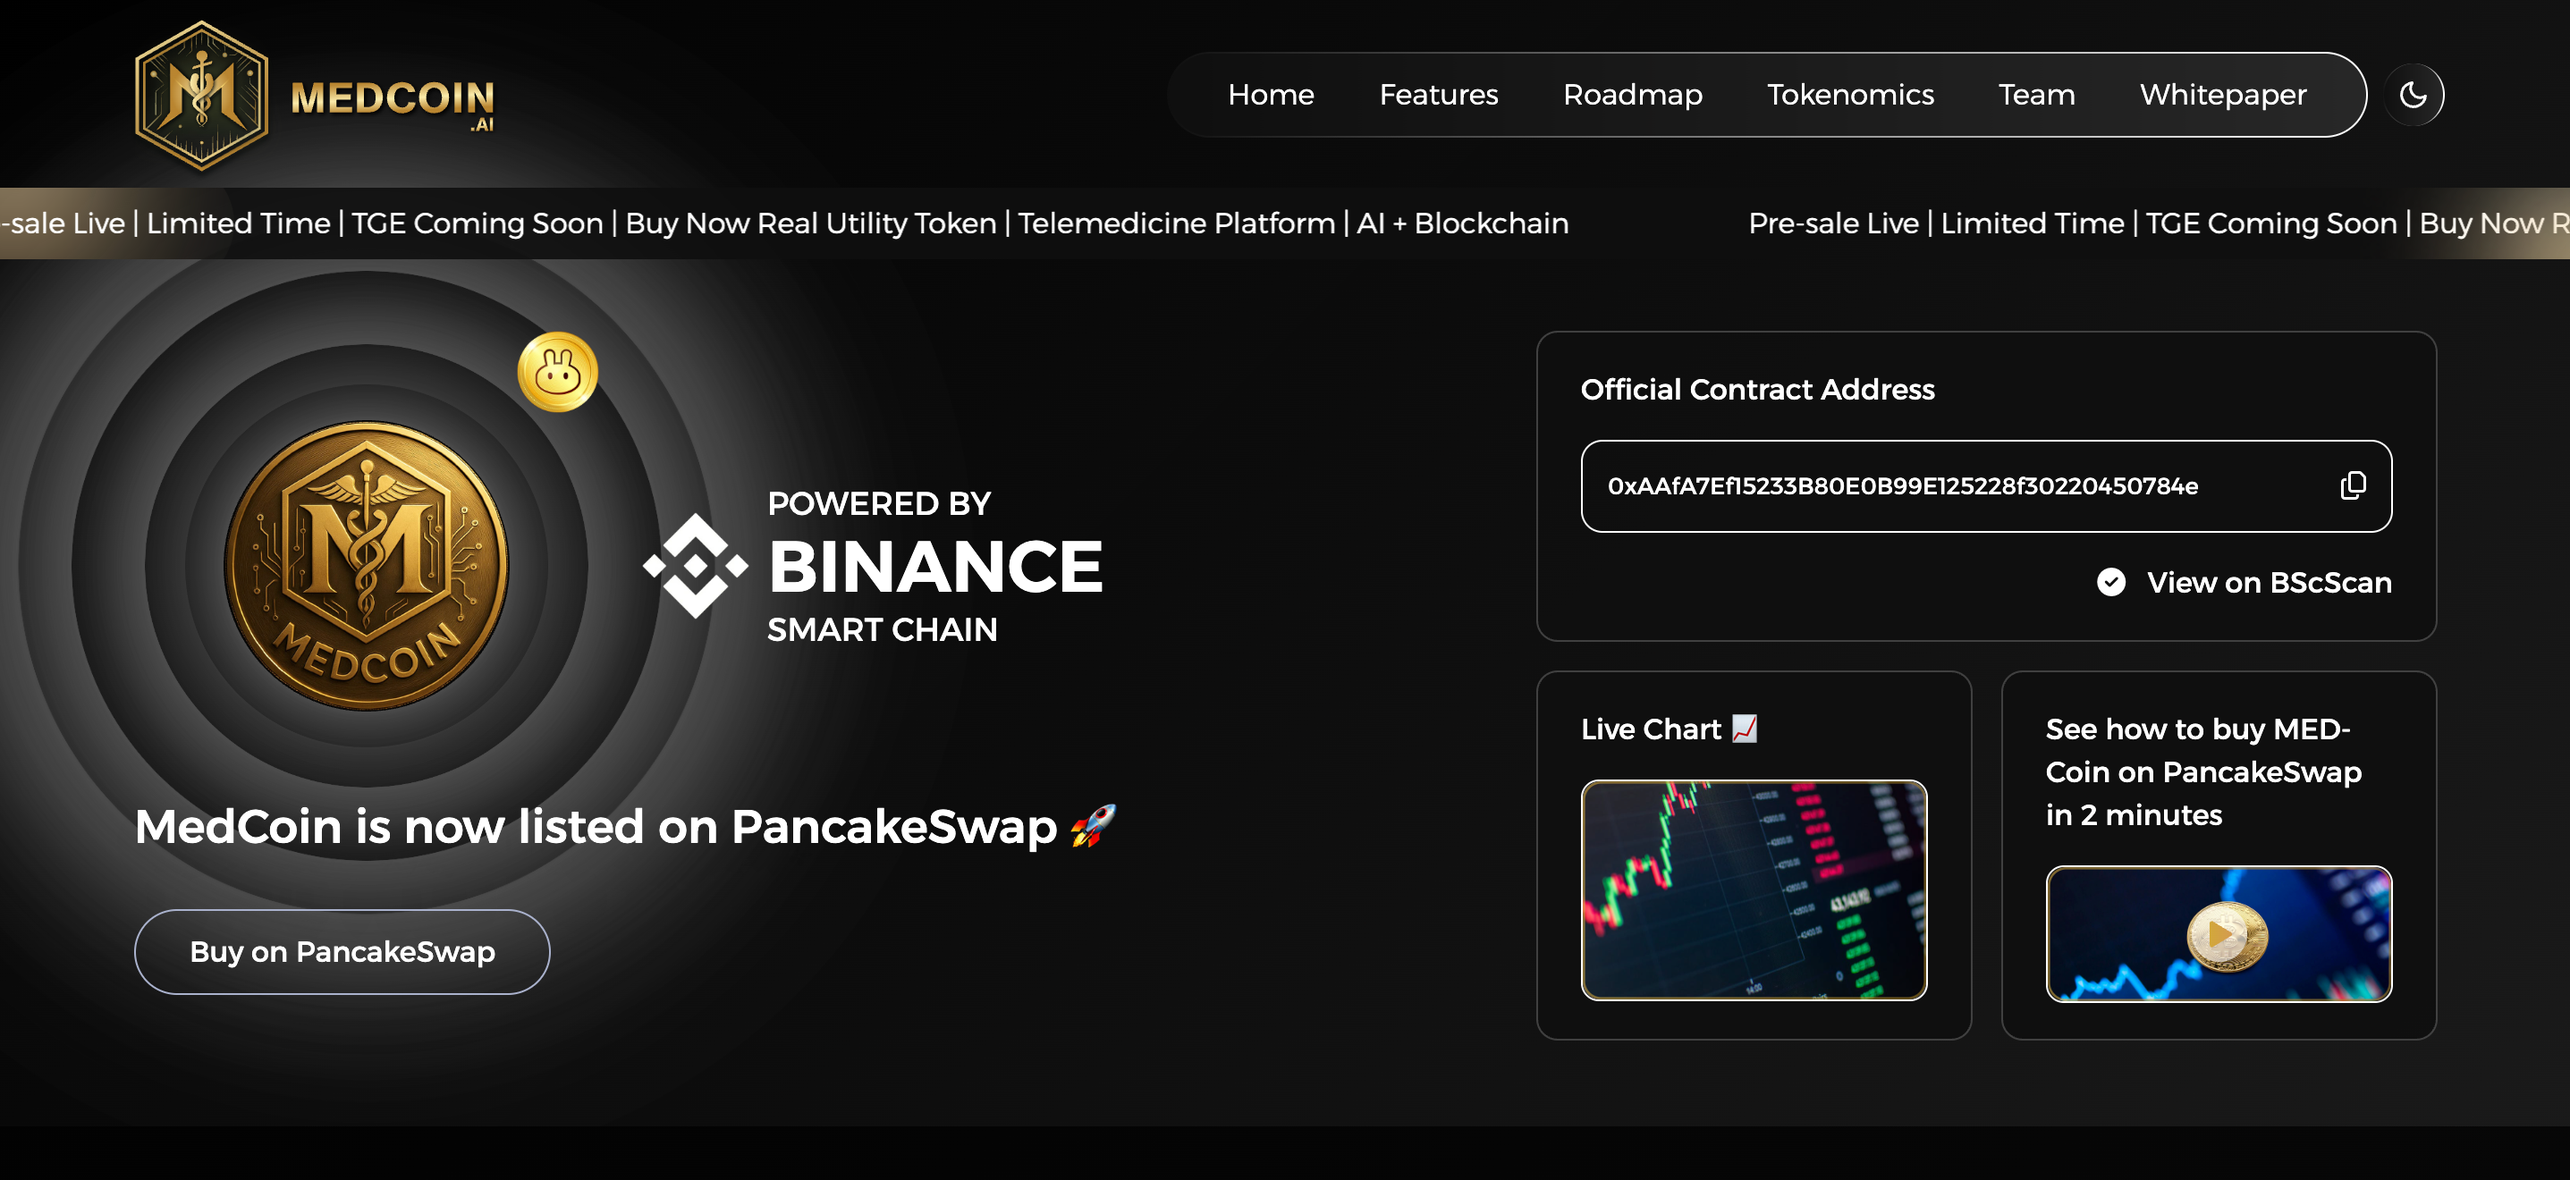
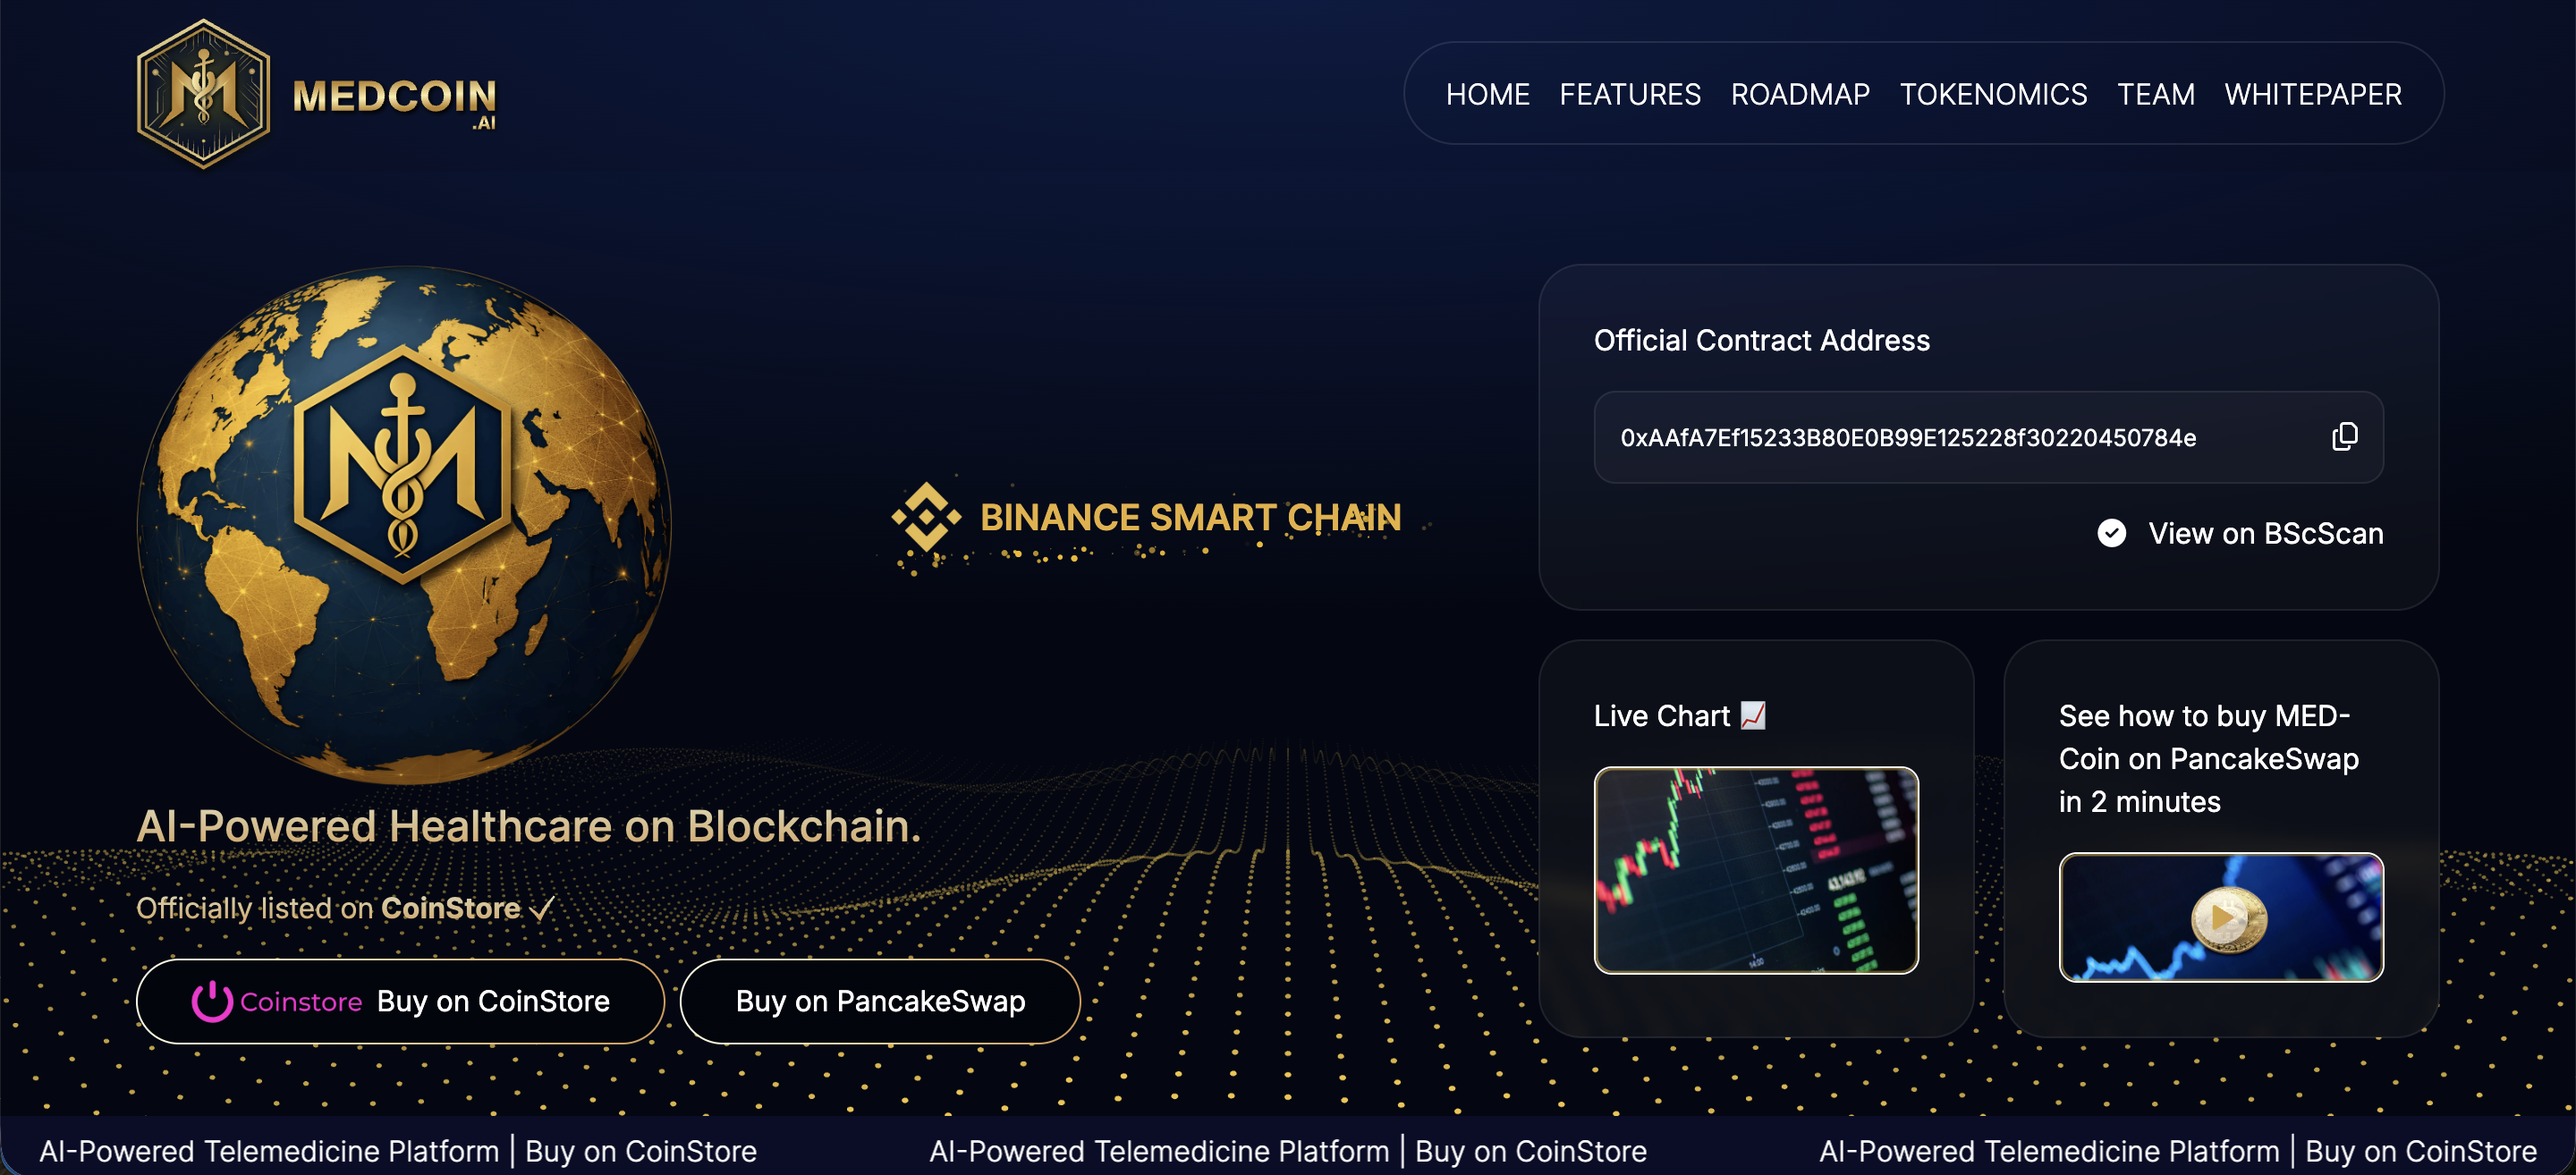
add new projects and update project ordering
- Add Vallote, Vinova, CSN India, Ask Service, and Taaluma projects
- Reorder Magicine Pharma and Vinova entries for better listing flow
- Update medcoin and vallote project images

diff --git a/src/components/projectData.ts b/src/components/projectData.ts
@@ -1,5 +1,14 @@
 export const projects = [
     {
+        title: 'Vallote',
+        description: '',
+        image: '/images/vallote.png',
+        technologies: ['Next.js', 'TypeScript', 'Redux Toolkit', 'Hero UI', 'Firebase', 'Tailwind CSS', 'Geocoding API'],
+        liveUrl: 'https://vallote.vercel.app/',
+        githubUrl: 'https://github.com',
+        category: 'Next.js'
+    },
+    {
         title: 'MedCoin',
         description: '',
         image: '/images/medcoin.png',
@@ -9,11 +18,29 @@ export const projects = [
         category: 'React JS'
     },
     {
+        title: 'Magicine Pharma',
+        description: 'Magicine Pharma is an online healthcare platform offering services like medicine delivery, lab tests, doctor consultations, and more. I designed and developed the entire website, integrated multiple APIs to fetch dynamic data, implemented Google authentication, and used geocoding to detect users’ current locations. The platform also supports secure online payments through PayPal, Razorpay, and Cash on Delivery.',
+        image: '/images/magicine-pharma.png',
+        technologies: ['Next.js', 'TypeScript', 'Redux Toolkit', 'Next UI', 'Firebase', 'Tailwind CSS', 'Geocoding API'],
+        liveUrl: 'https://www.magicinepharma.com/',
+        githubUrl: 'https://github.com',
+        category: 'Next.js'
+    },
+    {
         title: 'Shootezy',
         description: '',
         image: '/images/shootezy.png',
         technologies: ['Next.js', 'TypeScript', 'Redux Toolkit', 'Hero UI', 'Firebase', 'Tailwind CSS', 'Geocoding API'],
         liveUrl: 'https://shootesy.com/',
+        githubUrl: 'https://github.com',
+        category: 'Next.js'
+    },
+    {
+        title: 'Vinova',
+        description: '',
+        image: '/images/vinova.png',
+        technologies: ['Next.js', 'TypeScript', 'Redux Toolkit', 'Hero UI', 'Firebase', 'Tailwind CSS', 'Geocoding API'],
+        liveUrl: 'https://vinova.store/',
         githubUrl: 'https://github.com',
         category: 'Next.js'
     },
@@ -36,20 +63,29 @@ export const projects = [
         category: 'Others'
     },
     {
-        title: 'Vinova',
+        title: 'CSN India',
         description: '',
-        image: '/images/vinova.png',
-        technologies: ['Next.js', 'TypeScript', 'Redux Toolkit', 'Hero UI', 'Firebase', 'Tailwind CSS', 'Geocoding API'],
-        liveUrl: 'https://vinova.store/',
+        image: '/images/csn.png',
+        technologies: ['Next.js', 'TypeScript', 'Redux Toolkit', 'Hero UI', 'Tailwind CSS',],
+        liveUrl: 'https://csn-eta.vercel.app/',
         githubUrl: 'https://github.com',
         category: 'Next.js'
     },
     {
-        title: 'Magicine Pharma',
-        description: 'Magicine Pharma is an online healthcare platform offering services like medicine delivery, lab tests, doctor consultations, and more. I designed and developed the entire website, integrated multiple APIs to fetch dynamic data, implemented Google authentication, and used geocoding to detect users’ current locations. The platform also supports secure online payments through PayPal, Razorpay, and Cash on Delivery.',
-        image: '/images/magicine-pharma.png',
-        technologies: ['Next.js', 'TypeScript', 'Redux Toolkit', 'Next UI', 'Firebase', 'Tailwind CSS', 'Geocoding API'],
-        liveUrl: 'https://www.magicinepharma.com/',
+        title: 'Ask Service',
+        description: '',
+        image: '/images/ask-service.png',
+        technologies: ['Next.js', 'TypeScript', 'Redux Toolkit', 'Hero UI', 'Tailwind CSS',],
+        liveUrl: 'https://ask-service.vercel.app/',
+        githubUrl: 'https://github.com',
+        category: 'Next.js'
+    },
+    {
+        title: 'Taaluma',
+        description: '',
+        image: '/images/taaluma.png',
+        technologies: ['Next.js', 'TypeScript', 'Redux Toolkit', 'Hero UI', 'Tailwind CSS',],
+        liveUrl: 'https://taalumaworld.vercel.app/',
         githubUrl: 'https://github.com',
         category: 'Next.js'
     },
